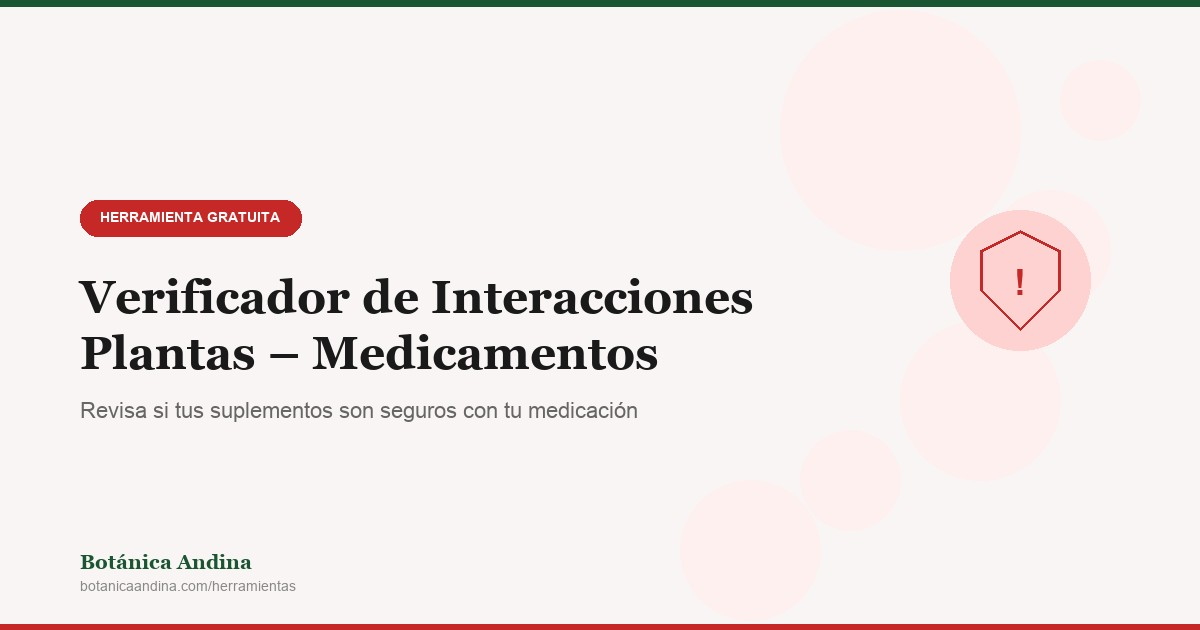
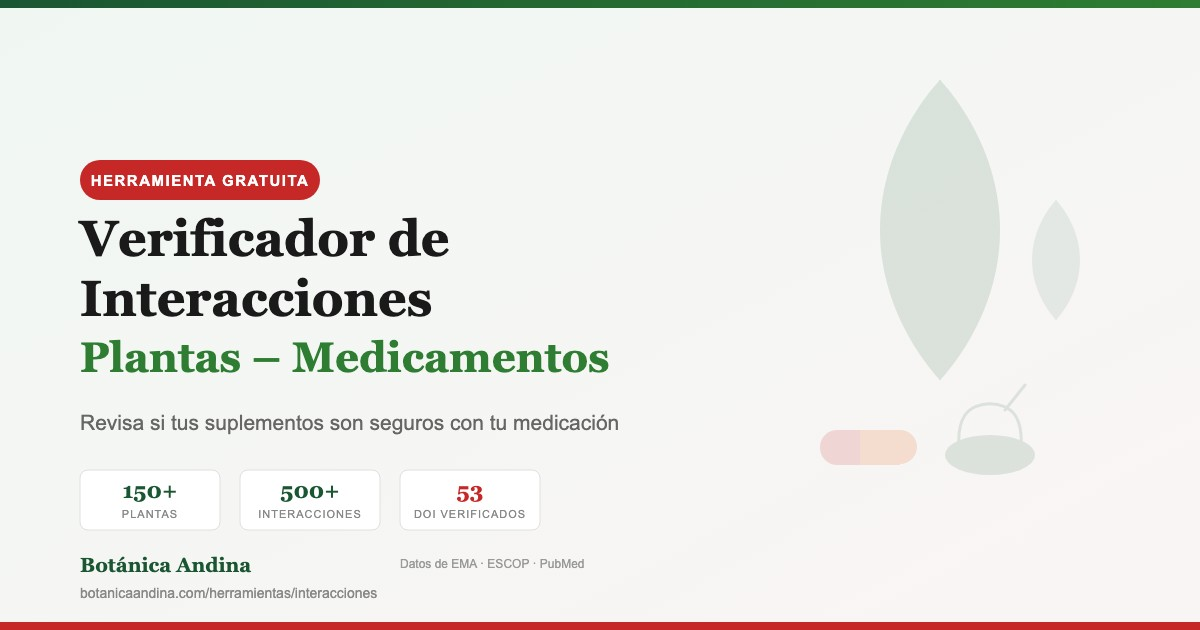
Visual upgrade: interaction checker header + OG image + share buttons

diff --git a/herramientas/interacciones/index.html b/herramientas/interacciones/index.html
@@ -65,9 +65,13 @@
             .nav-links { gap: 1rem; flex-wrap: wrap; justify-content: center; }
         }
 
-        .tool-header { background: linear-gradient(135deg, #1a5632 0%, #2e7d32 100%); color: #fff; padding: 2.5rem 1.5rem 2rem; text-align: center; }
-        .tool-header h1 { font-size: 1.7rem; margin-bottom: 0.5rem; }
-        .tool-header p { font-family: Arial, sans-serif; font-size: 0.95rem; opacity: 0.85; max-width: 650px; margin: 0 auto; }
+        .tool-header { background: linear-gradient(135deg, #1a5632 0%, #2e7d32 60%, #1a5632 100%); color: #fff; padding: 2.5rem 1.5rem 2rem; text-align: center; position: relative; overflow: hidden; }
+        .tool-header::before { content: ''; position: absolute; top: -40px; right: -30px; width: 200px; height: 280px; background: rgba(255,255,255,0.04); border-radius: 50%; }
+        .tool-header::after { content: ''; position: absolute; bottom: -60px; left: -40px; width: 180px; height: 180px; background: rgba(255,255,255,0.03); border-radius: 50%; }
+        .tool-header h1 { font-size: 1.7rem; margin-bottom: 0.5rem; position: relative; z-index: 1; }
+        .tool-header p { font-family: Arial, sans-serif; font-size: 0.95rem; opacity: 0.85; max-width: 650px; margin: 0 auto; position: relative; z-index: 1; }
+        .header-illustration { position: relative; z-index: 1; margin: 0 auto 0.5rem; display: flex; justify-content: center; gap: 0.5rem; opacity: 0.7; }
+        .header-illustration svg { width: 40px; height: 40px; }
 
         .tool-container { max-width: 900px; margin: 2rem auto; padding: 0 1.5rem; }
 
@@ -193,6 +197,11 @@
     </nav>
 
     <header class="tool-header">
+        <div class="header-illustration">
+            <svg viewBox="0 0 40 40" fill="none" xmlns="http://www.w3.org/2000/svg"><path d="M20 4C20 4 28 12 28 22C28 32 20 36 20 36C20 36 12 32 12 22C12 12 20 4 20 4Z" fill="rgba(255,255,255,0.3)"/><line x1="20" y1="4" x2="20" y2="36" stroke="rgba(255,255,255,0.4)" stroke-width="0.8"/><path d="M20 14C24 16 26 19 27 22" fill="none" stroke="rgba(255,255,255,0.3)" stroke-width="0.6"/><path d="M20 14C16 16 14 19 13 22" fill="none" stroke="rgba(255,255,255,0.3)" stroke-width="0.6"/><path d="M20 22C24 24 26 27 27 30" fill="none" stroke="rgba(255,255,255,0.3)" stroke-width="0.6"/><path d="M20 22C16 24 14 27 13 30" fill="none" stroke="rgba(255,255,255,0.3)" stroke-width="0.6"/></svg>
+            <svg viewBox="0 0 40 40" fill="none" xmlns="http://www.w3.org/2000/svg"><rect x="12" y="16" width="16" height="8" rx="4" fill="rgba(255,255,255,0.25)"/><rect x="20" y="16" width="8" height="8" rx="0" fill="rgba(255,255,255,0.15)"/><ellipse cx="28" cy="20" rx="4" ry="4" fill="rgba(255,255,255,0.15)"/></svg>
+            <svg viewBox="0 0 40 40" fill="none" xmlns="http://www.w3.org/2000/svg"><path d="M20 4C20 4 28 12 28 22C28 32 20 36 20 36C20 36 12 32 12 22C12 12 20 4 20 4Z" fill="rgba(255,255,255,0.3)"/><line x1="20" y1="4" x2="20" y2="36" stroke="rgba(255,255,255,0.4)" stroke-width="0.8"/><path d="M20 14C24 16 26 19 27 22" fill="none" stroke="rgba(255,255,255,0.3)" stroke-width="0.6"/><path d="M20 14C16 16 14 19 13 22" fill="none" stroke="rgba(255,255,255,0.3)" stroke-width="0.6"/></svg>
+        </div>
         <h1>Verificador de Interacciones<br>Plantas Medicinales &ndash; Medicamentos</h1>
         <p>Consulta si tu planta medicinal puede interactuar con medicamentos convencionales. Datos de monograf&iacute;as oficiales (EMA, ESCOP) y estudios indexados en PubMed.</p>
     </header>
@@ -298,6 +307,17 @@
             <h3>Integra esta herramienta en tu sitio web</h3>
             <div class="embed-code" id="embedCode">&lt;iframe src="https://botanicaandina.com/herramientas/interacciones/" width="100%" height="900" frameborder="0" title="Verificador de Interacciones Plantas Medicinales"&gt;&lt;/iframe&gt;</div>
             <button class="copy-btn" onclick="navigator.clipboard.writeText(document.getElementById('embedCode').textContent)">Copiar c&oacute;digo</button>
+        </div>
+
+        <div style="text-align:center;margin-top:2rem;padding:1.5rem;background:#e8f5e9;border-radius:12px;">
+            <h3 style="font-size:1rem;margin-bottom:0.8rem;color:#1a5632;">Comparte esta herramienta</h3>
+            <p style="font-family:Arial,sans-serif;font-size:0.85rem;color:#555;margin-bottom:1rem;">Ayuda a que m&aacute;s personas verifiquen las interacciones de sus suplementos</p>
+            <div style="display:flex;gap:0.8rem;justify-content:center;flex-wrap:wrap;">
+                <a href="https://twitter.com/intent/tweet?text=Herramienta%20gratuita%20para%20verificar%20interacciones%20entre%20plantas%20medicinales%20y%20medicamentos%20%E2%80%94%20150%2B%20plantas%2C%20500%2B%20interacciones&url=https%3A%2F%2Fbotanicaandina.com%2Fherramientas%2Finteracciones%2F" target="_blank" rel="noopener" class="share-btn twitter">Compartir en X</a>
+                <a href="https://wa.me/?text=Herramienta%20gratuita%20para%20verificar%20interacciones%20plantas%20medicinales%20%E2%80%93%20medicamentos%20https%3A%2F%2Fbotanicaandina.com%2Fherramientas%2Finteracciones%2F" target="_blank" rel="noopener" class="share-btn whatsapp">WhatsApp</a>
+                <a href="https://www.facebook.com/sharer/sharer.php?u=https%3A%2F%2Fbotanicaandina.com%2Fherramientas%2Finteracciones%2F" target="_blank" rel="noopener" class="share-btn" style="background:#1877f2;color:#fff;padding:0.5rem 1rem;border-radius:8px;font-family:Arial,sans-serif;font-size:0.82rem;text-decoration:none;display:inline-block;">Facebook</a>
+                <button class="share-btn copy-share" onclick="navigator.clipboard.writeText('https://botanicaandina.com/herramientas/interacciones/');this.textContent='Copiado!'">Copiar enlace</button>
+            </div>
         </div>
     </div>
 
